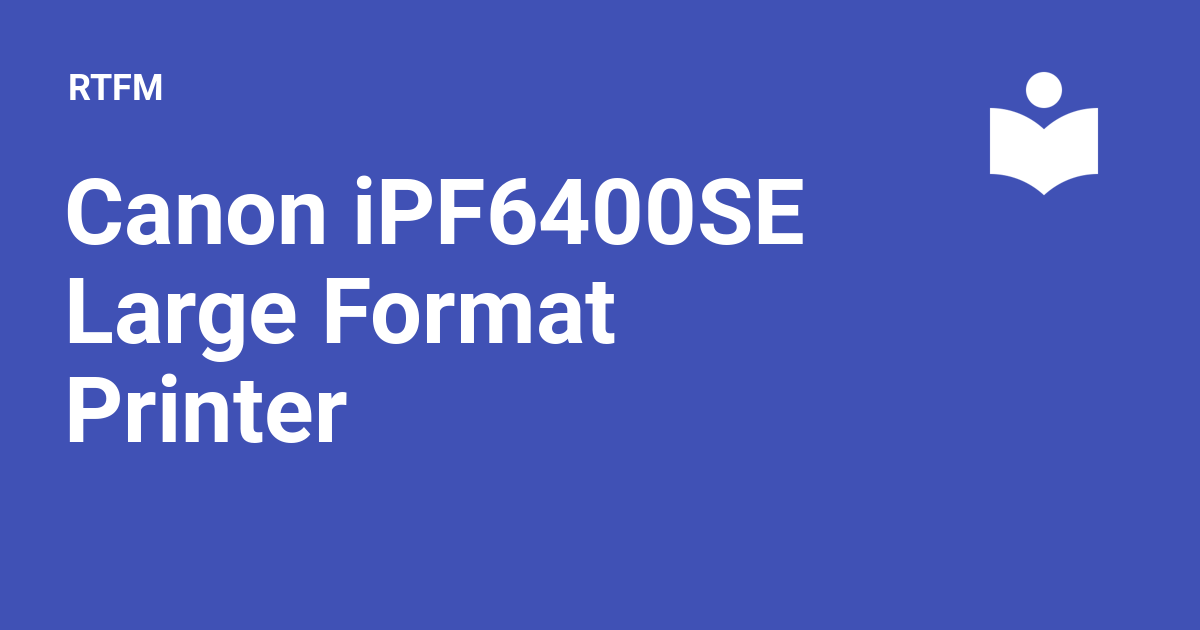
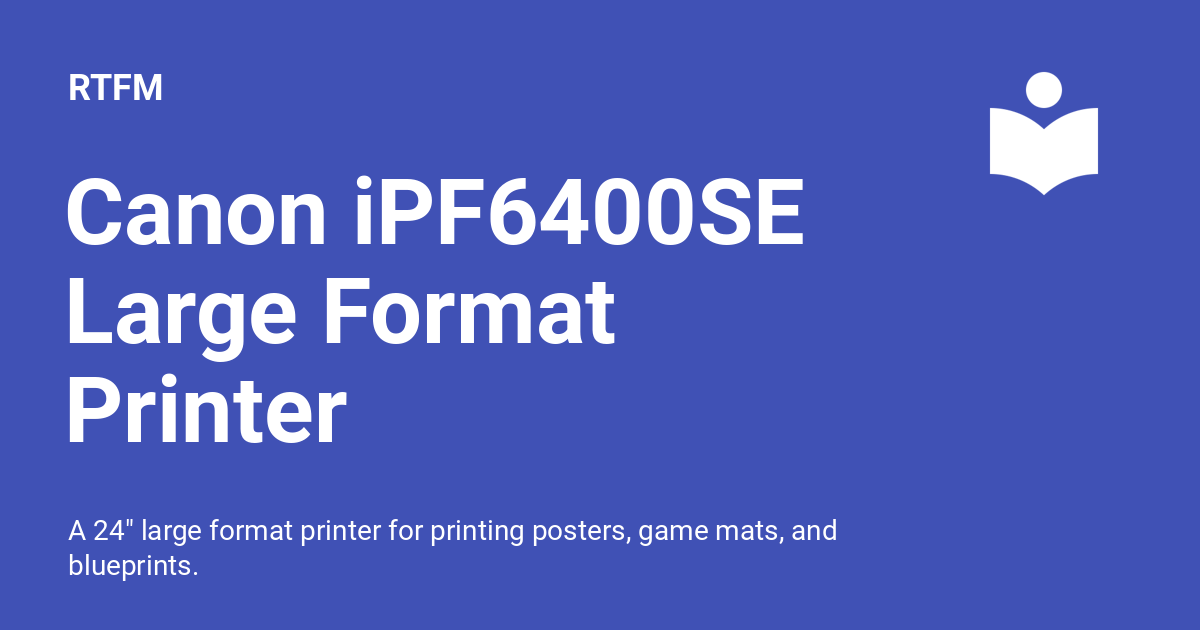
deploy: synshop/rtfm@066eae1b903a9fb4b1153c0916b49907f8f20aac

Changed region(s): [[0.0617, 0.8143, 0.7092, 0.9349]]

diff --git a/members/Equipment/Print and Office/Large Format Printer/index.html b/members/Equipment/Print and Office/Large Format Printer/index.html
@@ -6,6 +6,8 @@
       <meta charset="utf-8">
       <meta name="viewport" content="width=device-width,initial-scale=1">
       
+        <meta name="description" content="A 24" large format printer for printing posters, game mats, and blueprints.">
+      
       
       
         <link rel="canonical" href="https://rtfm.synshop.org/members/Equipment/Print%20and%20Office/Large%20Format%20Printer/">
@@ -58,7 +60,7 @@
       
         <meta  property="og:title"  content="Canon iPF6400SE Large Format Printer - RTFM" >
       
-        <meta  property="og:description"  content="None" >
+        <meta  property="og:description"  content="A 24" large format printer for printing posters, game mats, and blueprints." >
       
         <meta  property="og:image"  content="https://rtfm.synshop.org/assets/images/social/members/Equipment/Print and Office/Large Format Printer.png" >
       
@@ -74,7 +76,7 @@
       
         <meta  name="twitter:title"  content="Canon iPF6400SE Large Format Printer - RTFM" >
       
-        <meta  name="twitter:description"  content="None" >
+        <meta  name="twitter:description"  content="A 24" large format printer for printing posters, game mats, and blueprints." >
       
         <meta  name="twitter:image"  content="https://rtfm.synshop.org/assets/images/social/members/Equipment/Print and Office/Large Format Printer.png" >
       
